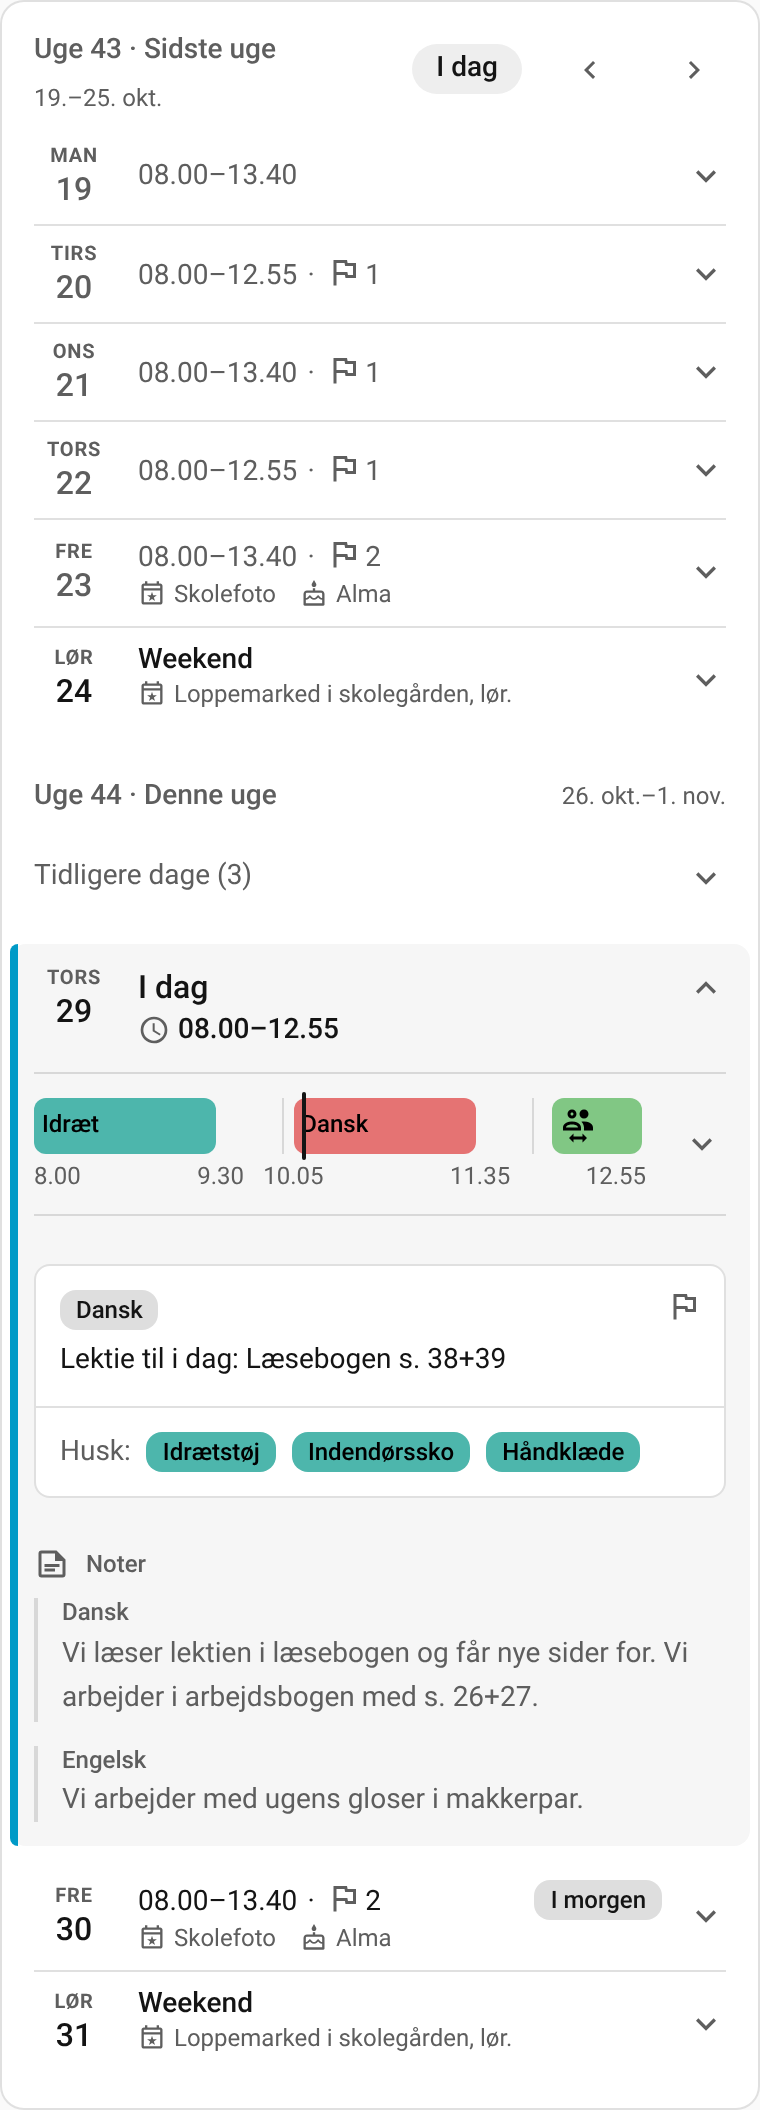
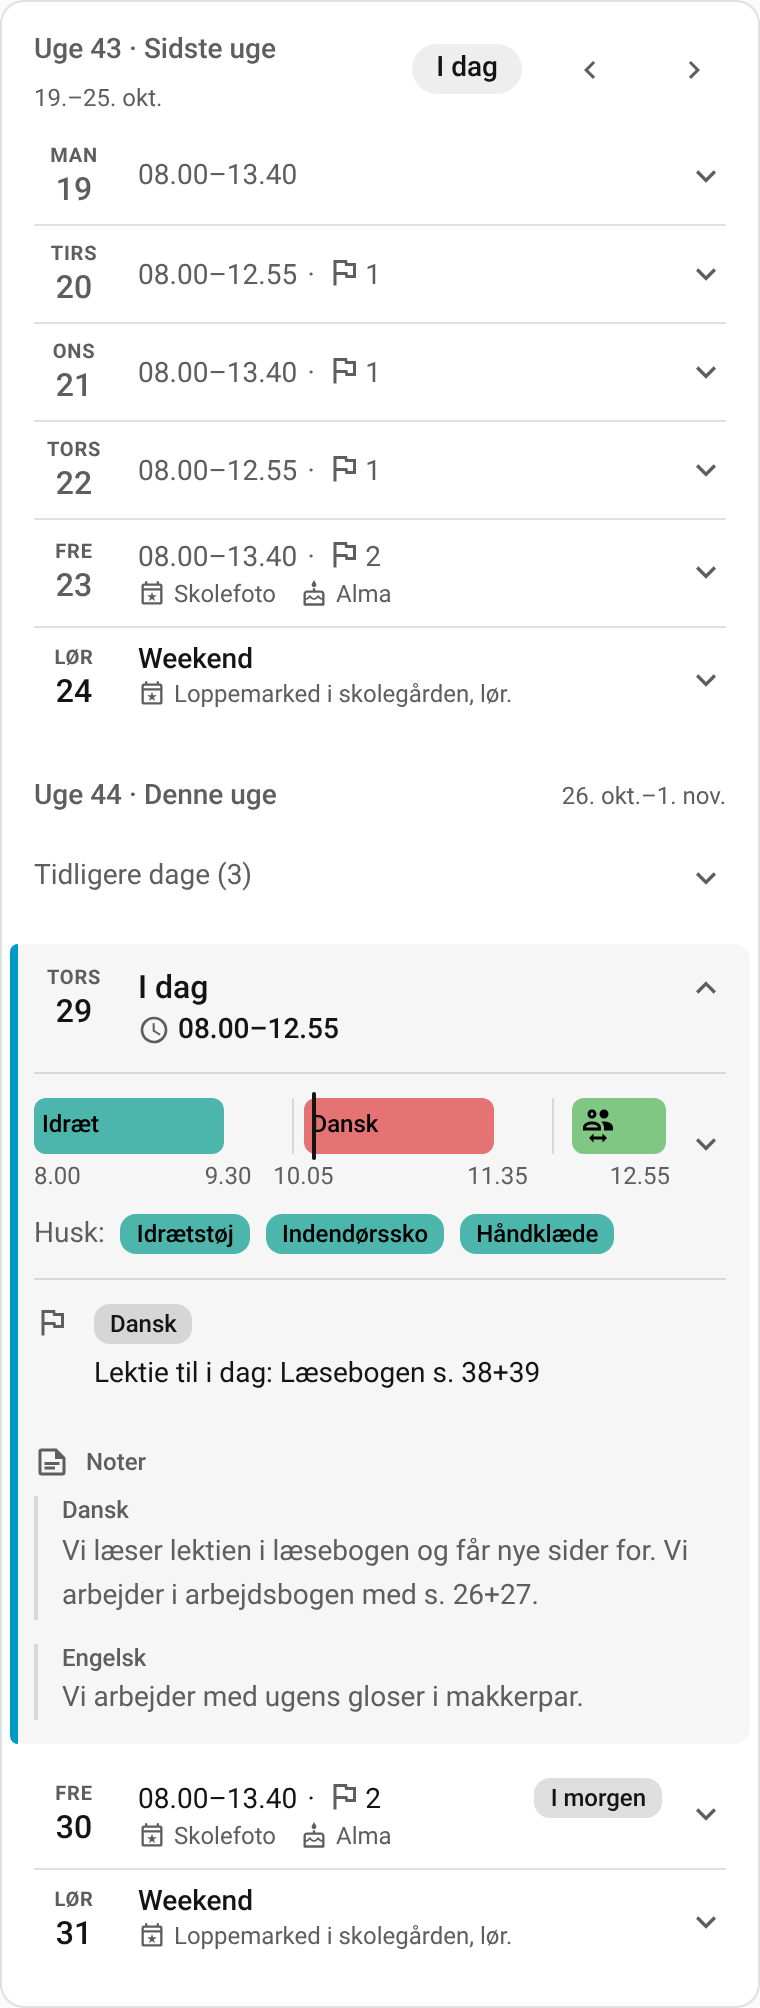
Week card: Husk under the timetable's bar, the plan's tasks in rows beside a flag
In an open day the things to bring follow the bar they come from, with the line below
them, and what the week plan marks follows without a box, in rows beside one flag. The
chevron stays beside the bar. A part with only things to bring has no flag.

Claude-Session: https://claude.ai/code/session_01SqQDNZBDdSDZgAEZdkAgqw

diff --git a/src/ui/styles.ts b/src/ui/styles.ts
@@ -104,7 +104,8 @@ export const base = css`
   .period {
     font-size: 0.8em;
   }
-  .sr {
+  .sr,
+  .day-body [data-block="timetable"] .more-text {
     position: absolute;
     width: 1px;
     height: 1px;
@@ -125,14 +126,12 @@ export const base = css`
   /* A week plan not yet in Aula: its homework is unknown, so it is said as plainly as homework. */
   .empty.missing {
     display: flex;
-    align-items: center;
     gap: var(--aula-space-2);
     color: var(--aula-text);
     font-weight: var(--aula-medium);
   }
   .missing ha-icon {
-    flex: none;
-    color: var(--warning-color, #f57c00);
+    color: var(--aula-warning);
   }
 
   .status {
@@ -1407,43 +1406,20 @@ export const weekStyles = css`
   .focus-day .heading {
     flex-direction: row;
     align-items: baseline;
-    justify-content: space-between;
-    gap: var(--aula-space-3);
   }
-  .focus-day .open-title {
+  .open-title {
+    flex: 1;
     font-size: var(--aula-font-l);
-  }
-  .ahead {
-    flex: none;
-    color: var(--aula-text-2);
   }
   /*
    * An open day's timetable stands between lines, first, its bar the width it can have: its
-   * toggle is the chevron at its end, its words left to a screen reader.
+   * toggle is the chevron beside it, its words left to a screen reader.
    */
   .day-body [data-block="timetable"] {
-    position: relative;
+    display: grid;
+    grid-template-columns: 1fr auto;
     padding-block: var(--aula-space-3);
-    padding-inline-end: calc(40px * var(--aula-scale));
     border-block: 1px solid var(--aula-line);
-  }
-  .day-body [data-block="timetable"] > .more {
-    position: absolute;
-    inset-inline-end: calc(-1 * var(--aula-space-3));
-    top: 50%;
-    transform: translateY(-50%);
-    justify-content: center;
-    width: var(--aula-target);
-    margin: 0;
-    padding: 0;
-  }
-  .day-body [data-block="timetable"] .more-text {
-    position: absolute;
-    width: 1px;
-    height: 1px;
-    overflow: hidden;
-    clip-path: inset(50%);
-    white-space: nowrap;
   }
   .focus-day .hero-text {
     gap: var(--aula-space-1);
@@ -1454,8 +1430,38 @@ export const weekStyles = css`
   .day-row:not(.focus-day) > .day-body {
     padding-top: var(--aula-space-2);
   }
-  .day-row[open] .homework {
-    background: var(--aula-surface);
+  /*
+   * Under the timetable Husk follows its bar, the line moving below it; what the plan marks
+   * follows in rows beside one flag.
+   */
+  .day-body [data-block="timetable"]:has(+ .block .hw-pack) {
+    padding-bottom: 0;
+    border-bottom: 0;
+  }
+  .day-body [data-block="timetable"] + .block:has(.hw-pack) {
+    margin-top: calc(-1 * var(--aula-space-3));
+  }
+  .day-body .vital {
+    display: grid;
+    grid-template-columns: auto 1fr;
+    gap: var(--aula-space-3);
+  }
+  .day-body .homework {
+    display: contents;
+  }
+  .day-body .vital-flag {
+    position: static;
+  }
+  .day-body .vital .hw {
+    grid-column: 2;
+    border: 0;
+    padding: 0;
+  }
+  .day-body .vital .hw-pack {
+    order: -1;
+    grid-column: 1 / -1;
+    padding-bottom: var(--aula-space-3);
+    border-bottom: 1px solid var(--aula-line);
   }
   .weekend-day + .weekend-day {
     margin-top: var(--aula-space-6);

diff --git a/src/ui/blocks.ts b/src/ui/blocks.ts
@@ -119,18 +119,10 @@ export function homeworkList(notes: readonly NoteView[], ctx: ViewContext): Temp
  * homework is unknown, not none.
  */
 export function emptyNote(text: string, empty: EmptyKind | "none" | undefined): TemplateResult {
-  return empty === "planMissing"
-    ? html`<p class="empty missing">${icon("mdi:clock-alert-outline")}<span>${text}</span></p>`
-    : html`<p class="empty">${text}</p>`;
-}
-
-/** Shows a part's content, or why it has none where `text` says so. */
-export function partOrNote(
-  text: string | undefined,
-  empty: EmptyKind | "none" | undefined,
-  content: () => unknown,
-): unknown {
-  return text === undefined ? content() : emptyNote(text, empty);
+  const missing = empty === "planMissing";
+  return html`<p class="empty ${missing ? "missing" : ""}">
+    ${missing ? icon("mdi:clock-alert-outline") : nothing}${text}
+  </p>`;
 }
 
 /** Returns the sentence a part says when it has nothing. */
@@ -161,7 +153,11 @@ export function emptyText(
 function important(part: Part, ctx: ViewContext): TemplateResult {
   const { homework, noHomework, pack, subjects } = part.plan;
   return html`<div class="vital">
-    <span class="vital-flag" aria-hidden="true">${icon(BLOCK_ICONS.task)}</span>
+    ${
+      homework.length > 0 || noHomework
+        ? html`<span class="vital-flag" aria-hidden="true">${icon(BLOCK_ICONS.task)}</span>`
+        : nothing
+    }
     <ul class="homework">
       ${homeworkItems(homework, ctx)}
       ${
@@ -536,9 +532,11 @@ export function renderBlock(
                           )
                         : nothing
                     }
-                    ${partOrNote(texts[index], part.empty, () =>
-                      body(id, part, ctx, options, unfolded),
-                    )}
+                    ${
+                      texts[index] === undefined
+                        ? body(id, part, ctx, options, unfolded)
+                        : emptyNote(texts[index], part.empty)
+                    }
                   </div>`,
               )}
             </div>

diff --git a/tests/ui/cards-render.test.ts b/tests/ui/cards-render.test.ts
@@ -1057,8 +1057,8 @@ describe("rarer days", () => {
 
   it("names the open day's distance on its title's line, not that it is the next school day, and keeps its hours", async () => {
     const { card } = await mount(WEEK, "fri-1400", { config: { children: [1001] } });
-    expect(text(card, ".focus-day .ahead")).toBe("om 3 dage");
-    expect(all(card, ".focus-day .date-line")).toEqual([]);
+    expect(texts(card, ".focus-day .heading > .date-line")).toEqual(["om 3 dage"]);
+    expect(text(card, ".focus-day .heading")).not.toContain("næste skoledag");
     expect(text(card, ".focus-day .hero-text > .hours")).toBe("08.00–13.40");
   });
 
@@ -1067,6 +1067,25 @@ describe("rarer days", () => {
     const first = card.shadowRoot?.querySelector(".focus-day .day-body .block");
     expect(first?.getAttribute("data-block")).toBe("timetable");
     expect(text(card, '.focus-day [data-block="timetable"] .more-text')).toBe("Vis hele skemaet");
+  });
+
+  it("leaves Vigtigt's flag out where a part has only things to bring", async () => {
+    const { card } = await mount(WEEK, "thu-1930", {
+      config: {
+        children: [1001, 1002],
+        packing: [{ subject: "Svømning", items: ["Badetøj"] }],
+      },
+    });
+    const parts = all(card, '.focus-day [data-block="task"] .vital');
+    expect(
+      parts.map((part) => [
+        part.querySelector(".hw-pack") !== null,
+        part.querySelector(".vital-flag") !== null,
+      ]),
+    ).toEqual([
+      [false, true],
+      [true, false],
+    ]);
   });
 
   it("says nothing of a day the week plan has nothing for", async () => {

diff --git a/src/ui/week.ts b/src/ui/week.ts
@@ -76,11 +76,11 @@ function dayColumn(day: string, ctx: ViewContext): TemplateResult {
 function blocks(row: DayRowView, child: Child, ctx: ViewContext, state: CardState): unknown {
   const { content } = row;
   // A week plan not yet in Aula is said first, where its homework would be, whatever the order.
-  const said = row.plan.blocks.filter((block) => block.empty !== "noHomework");
-  const missing = said.filter((block) => block.empty === "planMissing");
   const plan = {
     ...row.plan,
-    blocks: [...missing, ...said.filter((block) => block.empty !== "planMissing")],
+    blocks: row.plan.blocks
+      .filter((block) => block.empty !== "noHomework")
+      .sort((a, b) => Number(b.empty === "planMissing") - Number(a.empty === "planMissing")),
     noHomework: row.plan.noHomework === "noHomework" ? undefined : row.plan.noHomework,
   };
   const header = row.facts.filter((fact) => fact.kind === "birthday" || isHolidayEvent(fact.event));
@@ -217,7 +217,7 @@ function openHeading(row: DayRowView, focus: Focus, ctx: ViewContext): TemplateR
     >
     ${
       focus.reason === "next_school_day" && ahead > 1
-        ? html`<span class="ahead">${formatDaysAhead(ahead, ctx.language)}</span>`
+        ? html`<span class="date-line">${formatDaysAhead(ahead, ctx.language)}</span>`
         : nothing
     }
   </span>`;

diff --git a/src/ui/homework.ts b/src/ui/homework.ts
@@ -24,7 +24,7 @@ import type {
   HomeworkHero,
   HomeworkPart,
 } from "../model/homework-view.ts";
-import { emptyNote, homeworkList, partOrNote, planNotes, sameEmpty } from "./blocks.ts";
+import { emptyNote, homeworkList, planNotes, sameEmpty } from "./blocks.ts";
 import type { CardState } from "./card.ts";
 import {
   aula,
@@ -103,7 +103,11 @@ function day(
                         )
                       : nothing
                   }
-                  ${partOrNote(texts[at], part.empty, () => notes(part, item.day, ctx, state))}
+                  ${
+                    texts[at] === undefined
+                      ? notes(part, item.day, ctx, state)
+                      : emptyNote(texts[at], part.empty)
+                  }
                 </div>`,
             )}
           </div>`

diff --git a/README.md b/README.md
@@ -126,7 +126,8 @@ row; the rest closed, each summed up in a line: the hours, a flag with how many 
 plan marks as important ("08.00–13.40 · ⚑ 2"), and an event and a birthday, or "2 begivenheder"
 and "3 fødselsdage" when there are more. The opened day names itself on one line, with how far
 away it is on the other side ("Mandag", "om 3 dage") and its hours under it, and shows its
-timetable first, between thin lines, with only a chevron to open it whole. A day the week plan
+timetable first, between thin lines, with only a chevron to open it whole. Husk follows the bar
+it comes from, above the line; what the plan marks follows in rows beside a flag. A day the week plan
 marks nothing for says nothing of it. Where the week's plan is not in Aula yet, the opened day
 says so first, with a mark, and each closed row has "⚑ ?" in place of its count, so that a day
 without homework is never taken for one whose plan is still to come. A weekend with something on is one
